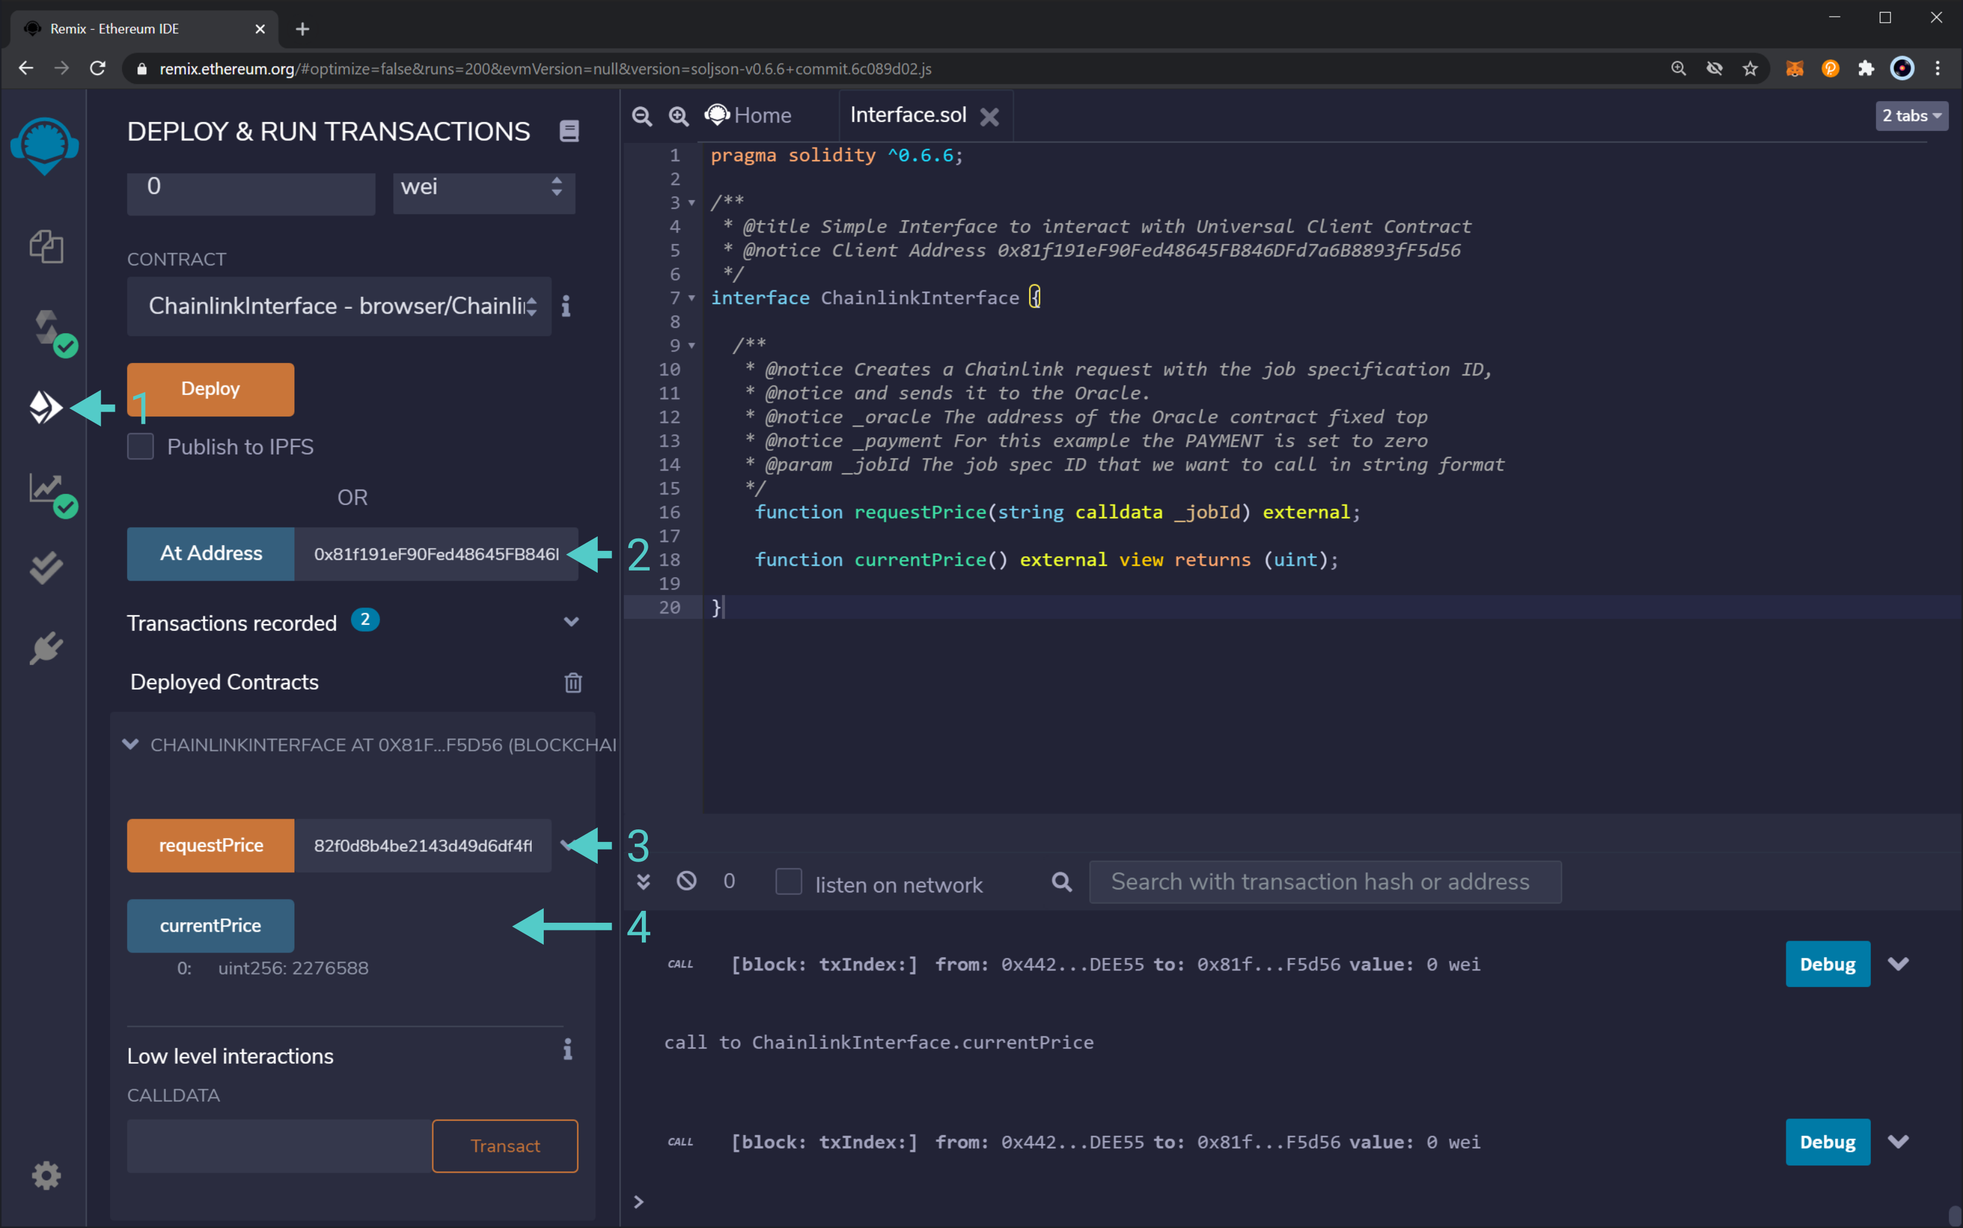
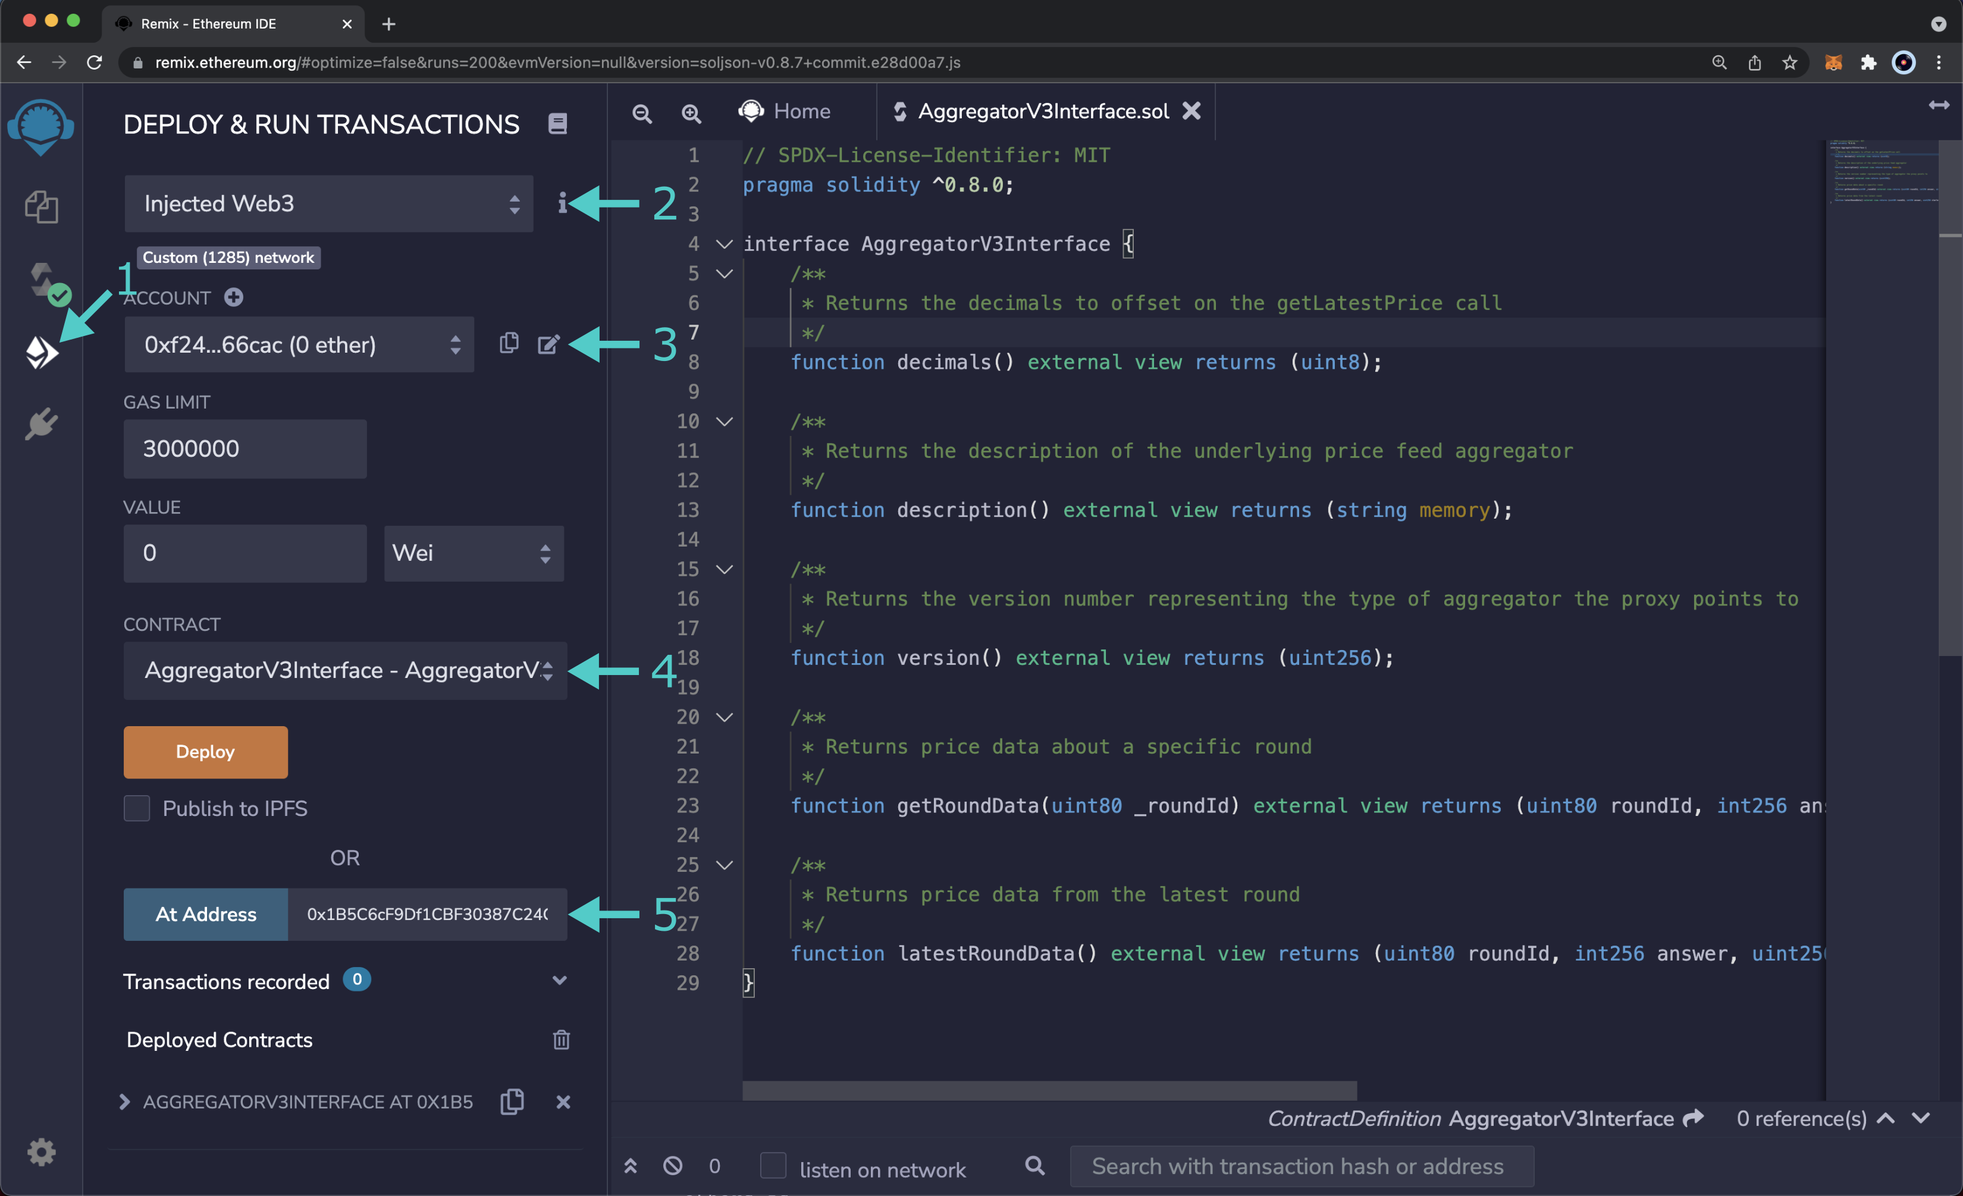
update chainlink docs for Moonriver

diff --git a/builders/integrations/oracles/chainlink.md b/builders/integrations/oracles/chainlink.md
@@ -9,160 +9,28 @@ description: How to use request data from a Chainlink Oracle in your Moonbeam Et
 
 ## Introduction {: #introduction } 
 
-Developers can now use [Chainlink's decentralized Oracle network](https://chain.link/) to fetch data in the Moonbase Alpha TestNet. This tutorial goes through two different ways of using Chainlink Oracles:
-
- - [Basic Request Model](https://docs.chain.link/docs/architecture-request-model), where the end-user sends a request to an Oracle provider, which fetches the data through an API, and fulfils the request storing this data on-chain
- - [Price Feeds](https://docs.chain.link/docs/architecture-decentralized-model), where data is continuously updated by Oracle operators in a smart contract so that other smart contracts can fetch it
-
-## Basic Request Model {: #basic-request-model } 
-
-Before we go into fetching the data itself, it is important to understand the basics of the "basic request model."
-
---8<-- 'text/chainlink/chainlink-brm.md'
-
-### The Client Contract {: #the-client-contract } 
-
-The Client contract is the element that starts the communication with the Oracle by sending a request. As shown in the diagram, it calls the _transferAndCall_ method from the LINK token contract, but there is more processing that is needed to track the request to the Oracle. For this example, you can use the code in [this file](/snippets/code/chainlink/Client.sol), and deploy it on [Remix](/builders/tools/remix/) to try it out. Let's look at the core functions of the contract:
-
- - _constructor_: runs when the contract is deployed. It sets the address of the LINK token and the owner of the contract
- - _requestPrice_: needs the Oracle contract address, the job ID, and the payment (in LINK) tokens to the fulfiller of the request. Builds the new request that is sent using the _sendChainlinkRequestTo_ function from the _ChainlinkClient.sol_ import
- - _fulfill_: callback used by the Oracle node to fulfill the request by storing the queried information in the contract
-
-```solidity
-pragma solidity ^0.6.6;
-
-import "https://github.com/smartcontractkit/chainlink/evm-contracts/src/v0.6/ChainlinkClient.sol";
-
-contract Client is ChainlinkClient {
-  //... there is mode code here
-
-  constructor(address _link) public {
-    // Set the address for the LINK token for the network
-    setChainlinkToken(_link);
-    owner = msg.sender;
-  }
-
-  function requestPrice(address _oracle, string memory _jobId, uint256 _payment)
-    public
-    onlyOwner
-  {
-    // newRequest takes a JobID, a callback address, and callback function as input
-    Chainlink.Request memory req = buildChainlinkRequest(stringToBytes32(_jobId), address(this), this.fulfill.selector);
-    // Sends the request with the amount of payment specified to the oracle
-    sendChainlinkRequestTo(_oracle, req, _payment);
-  }
-
-  function fulfill(bytes32 _requestId, uint256 _price)
-    public
-    recordChainlinkFulfillment(_requestId)
-  {
-    currentPrice = _price;
-  }
-
-  //... there is more code here
-}
-```
-
-Note that the Client contract must have a LINK tokens balance to be able to pay for this request. However, if you deploy your setup, you can set the LINK value to 0 in your `ChainlinkClient.sol` contract, but you still need to have the LINK token contract deployed.
-
-### Try it on Moonbase Alpha {: #try-it-on-moonbase-alpha } 
-
-If you want to skip the hurdles of deploying all contracts, setting up your Oracle node, creating job IDs, and so on, we've got you covered.
-
-A custom Client contract on Moonbase Alpha that makes all requests to our Oracle contract, with a 0 LINK token payment, is available. These requests are fulfilled by an Oracle node that we are running. You can try it out with the following interface contract and the custom Client contract deployed at `{{ networks.moonbase.chainlink.client_contract }}`:
-
-```solidity
-pragma solidity ^0.6.6;
-
-/**
- * @title Simple Interface to interact with Universal Client Contract
- * @notice Client Address {{ networks.moonbase.chainlink.client_contract }}
- */
-interface ChainlinkInterface {
-
-  /**
-   * @notice Creates a Chainlink request with the job specification ID,
-   * @notice and sends it to the Oracle.
-   * @notice _oracle The address of the Oracle contract fixed top
-   * @notice _payment For this example the PAYMENT is set to zero
-   * @param _jobId The job spec ID that we want to call in string format
-   */
-    function requestPrice(string calldata _jobId) external;
-
-    function currentPrice() external view returns (uint);
-
-}
-```
-
-This provides two functions. `requestPrice()` only needs the job ID of the data you want to query. This function starts the chain of events explained before. `currentPrice()` is a view function that returns the latest price stored in the contract.
-
-Currently, the Oracle node has a set of Job IDs for different price datas for the following pairs:
-
-|  Base/Quote  |     |                 Job ID Reference                  |
-| :----------: | --- | :-----------------------------------------------: |
-|  BTC to USD  |     |  {{ networks.moonbase.chainlink.basic.btc_usd }}  |
-|  ETH to USD  |     |  {{ networks.moonbase.chainlink.basic.eth_usd }}  |
-|  DOT to USD  |     |  {{ networks.moonbase.chainlink.basic.dot_usd }}  |
-|  KSM to USD  |     |  {{ networks.moonbase.chainlink.basic.ksm_usd }}  |
-| AAVE to USD  |     | {{ networks.moonbase.chainlink.basic.aave_usd }}  |
-| ALGO to USD  |     | {{ networks.moonbase.chainlink.basic.algo_usd }}  |
-| BAND to USD  |     | {{ networks.moonbase.chainlink.basic.band_usd }}  |
-| LINK to USD  |     | {{ networks.moonbase.chainlink.basic.link_usd }}  |
-| SUSHI to USD |     | {{ networks.moonbase.chainlink.basic.sushi_usd }} |
-|  UNI to USD  |     |  {{ networks.moonbase.chainlink.basic.uni_usd }}  |
-
-Let's go ahead and use the interface contract with the `BTC to USD` Job ID in [Remix](/builders/tools/remix/).
-
-After creating the file and compiling the contract, head to the "Deploy and Run Transactions" tab, enter the Client contract address, and click on "At Address." Make sure you have set the "Environment" to "Injected Web3" so you are connected to Moonbase Alpha. This will create an instance of the Client contract that you can interact with. Use the function `requestPrice()` to query the data of the corresponding Job ID. Once the transaction is confirmed, we have to wait until the whole process explained before occurs. We can check the price using the view function `currentPrice()`.
-
-![Chainlink Basic Request on Moonbase Alpha](/images/builders/integrations/oracles/chainlink/chainlink-1.png)
-
-If there is any specific pair you want us to include, feel free to reach out to us through our [Discord server](https://discord.com/invite/PfpUATX).
-
-### Run your Client Contract {: #run-your-client-contract } 
-
-If you want to run your Client contract but use our Oracle node, you can do so with the following information:
-
-|  Contract Type  |     |                      Address                      |
-| :-------------: | --- | :-----------------------------------------------: |
-| Oracle Contract |     | {{ networks.moonbase.chainlink.oracle_contract }} |
-|   LINK Token    |     |  {{ networks.moonbase.chainlink.link_contract }}  |
-
-Remember that the LINK token payment is set to zero.
-
-### Other Requests {: #other-requests } 
-
-Chainlink's Oracles can tentatively provide many different types of data feeds with the use of external adapters. However, for simplicity, our Oracle node is configured to deliver only price feeds.
-
-If you are interested in running your own Oracle node in Moonbeam, please visit [this guide](/node-operators/oracle-nodes/node-chainlink/). Also, we recommend going through [Chainlink's documentation site](https://docs.chain.link/docs).
+Developers can now use [Chainlink's decentralized Oracle network](https://chain.link/) to fetch data in the Moonbase Alpha TestNet and Moonriver. [Price Feeds](https://docs.chain.link/docs/architecture-decentralized-model) contain real-time price data that is continuously updated by Oracle operators in a smart contract so that other smart contracts can fetch and consume it. This guide will cover the available price feeds and how to fetch the latest price data on Moonriver. 
 
 ## Price Feeds {: #price-feeds } 
 
 Before we go into fetching the data itself, it is important to understand the basics of price feeds.
 
-In a standard configuration, each price feed is updated by a decentralized Oracle network. Each Oracle node is rewarded for publishing the price data to the Aggregator contract. However, the information is only updated if a minimum number of responses from Oracle nodes are received (during an aggregation round).
+In a standard configuration, each price feed is updated by a decentralized Oracle network. Each Oracle node is rewarded for publishing the price data to the Aggregator contract. The Aggregator contract receives periodic data updates from the network of oracles and aggregates and stores the data on-chain so that consumers can easily fetch it. However, the information is only updated if a minimum number of responses from Oracle nodes are received (during an aggregation round).
 
-The end-user can retrieve price feeds with read-only operations via a Consumer contract, referencing the correct Aggregator interface (Proxy contract). The Proxy acts as a middleware to provide the Consumer with the most up-to-date Aggregator for a particular price feed.
+The end-user can retrieve price feeds with read-only operations via a Consumer contract, referencing the Aggregator interface (Proxy contract). The Proxy acts as a middleware to provide the Consumer with the most up-to-date Aggregator for a particular price feed.
 
 ![Price Feed Diagram](/images/builders/integrations/oracles/chainlink/chainlink-price-feed.png)
 
-### Try it on Moonbase Alpha {: #try-it-on-moonbase-alpha } 
+### Try it out {: #try-it-out } 
 
-If you want to skip the hurdles of deploying all the contracts, setting up your Oracle node, creating job IDs, and so on, we've got you covered.
+There are Data Feed contracts available for both Moonbase Alpha and Moonriver to help simplify the process of requesting price feeds. In our current configuration for Moonbase Alpha, we are running only one Oracle node that fetches the price from a single API source. Price data is checked every minute and updated in the smart contracts every hour unless there is a price deviation of 1 %. The Moonriver Data Feed contracts are updated by multiple Chainlink nodes on a regular basis.
 
-We've deployed all the necessary contracts on Moonbase Alpha to simplify the process of requesting price feeds. In our current configuration, we are running only one Oracle node that fetches the price from a single API source. Price data is checked every minute and updated in the smart contracts every hour unless there is a price deviation of 1 %.
+The data lives in a series of smart contracts (one per price feed) and can be fetched with the Aggregator interface:
 
-The data lives in a series of smart contracts (one per price feed) and can be fetched with the following interface:
+```
+pragma solidity ^0.8.0;
 
-```solidity
-pragma solidity ^0.6.6;
-
-interface ConsumerV3Interface {
-    /**
-     * Returns the latest price
-     */
-    function getLatestPrice() external view returns (int);
-
+interface AggregatorV3Interface {
     /**
      * Returns the decimals to offset on the getLatestPrice call
      */
@@ -172,33 +40,80 @@ interface ConsumerV3Interface {
      * Returns the description of the underlying price feed aggregator
      */
     function description() external view returns (string memory);
+
+    /**
+     * Returns the version number representing the type of aggregator the proxy points to
+     */
+    function version() external view returns (uint256);
+
+    /**
+     * Returns price data about a specific round
+     */
+    function getRoundData(uint80 _roundId) external view returns (uint80 roundId, int256 answer, uint256 startedAt, uint256 updatedAt, uint80 answeredInRound);
+
+    /**
+     * Returns price data from the latest round
+     */
+    function latestRoundData() external view returns (uint80 roundId, int256 answer, uint256 startedAt, uint256 updatedAt, uint80 answeredInRound);
 }
-```
+```  
 
-This provides three functions. `getLatestPrice()` will read the latest price data available in the Aggregator contract via the Proxy. We've added the `decimals()` function, which returns the number of decimals of the data and the `description()` function, which returns a brief description of the price feed available in the Aggregator contract being queried.
+As seen above in the interface, there are five functions: `decimal`, `description`, `version`, `getRoundData`, and `latestRoundData`. Since the Consumer contract will use the Aggregator interface, all of these functions are available for fetching data. 
 
-Currently, there is an Consumer contract for the the following price pairs:
+Currently, there are Data Feed contracts for the the following price pairs:
 
-|  Base/Quote  |     |                     Consumer Contract                     |
-| :----------: | --- | :-------------------------------------------------------: |
-|  BTC to USD  |     |  {{ networks.moonbase.chainlink.feed.consumer.btc_usd }}  |
-|  ETH to USD  |     |  {{ networks.moonbase.chainlink.feed.consumer.eth_usd }}  |
-|  DOT to USD  |     |  {{ networks.moonbase.chainlink.feed.consumer.dot_usd }}  |
-|  KSM to USD  |     |  {{ networks.moonbase.chainlink.feed.consumer.ksm_usd }}  |
-| AAVE to USD  |     | {{ networks.moonbase.chainlink.feed.consumer.aave_usd }}  |
-| ALGO to USD  |     | {{ networks.moonbase.chainlink.feed.consumer.algo_usd }}  |
-| BAND to USD  |     | {{ networks.moonbase.chainlink.feed.consumer.band_usd }}  |
-| LINK to USD  |     | {{ networks.moonbase.chainlink.feed.consumer.link_usd }}  |
-| SUSHI to USD |     | {{ networks.moonbase.chainlink.feed.consumer.sushi_usd }} |
-|  UNI to USD  |     |  {{ networks.moonbase.chainlink.feed.consumer.uni_usd }}  |
+=== "Moonbase Alpha"
+    |  Base/Quote  |  |                     Consumer Contract                     |
+    |:------------:|--|:---------------------------------------------------------:|
+    |  BTC to USD  |  |  {{ networks.moonbase.chainlink.feed.consumer.btc_usd }}  |
+    |  ETH to USD  |  |  {{ networks.moonbase.chainlink.feed.consumer.eth_usd }}  |
+    |  DOT to USD  |  |  {{ networks.moonbase.chainlink.feed.consumer.dot_usd }}  |
+    |  KSM to USD  |  |  {{ networks.moonbase.chainlink.feed.consumer.ksm_usd }}  |
+    | AAVE to USD  |  | {{ networks.moonbase.chainlink.feed.consumer.aave_usd }}  |
+    | ALGO to USD  |  | {{ networks.moonbase.chainlink.feed.consumer.algo_usd }}  |
+    | BAND to USD  |  | {{ networks.moonbase.chainlink.feed.consumer.band_usd }}  |
+    | LINK to USD  |  | {{ networks.moonbase.chainlink.feed.consumer.link_usd }}  |
+    | SUSHI to USD |  | {{ networks.moonbase.chainlink.feed.consumer.sushi_usd }} |
+    |  UNI to USD  |  |  {{ networks.moonbase.chainlink.feed.consumer.uni_usd }}  |
 
-Let's go ahead and use the interface contract to fetch the price feed of `BTC to USD` using [Remix](/builders/tools/remix/).
+=== "Moonriver"
+    | Base/Quote  |  |                     Consumer Contract                     |
+    |:-----------:|--|:---------------------------------------------------------:|
+    | BTC to USD  |  | {{ networks.moonriver.chainlink.feed.consumer.btc_usd }}  |
+    | ETH to USD  |  | {{ networks.moonriver.chainlink.feed.consumer.eth_usd }}  |
+    | KSM to USD  |  | {{ networks.moonriver.chainlink.feed.consumer.ksm_usd }}  |
+    | LINK to USD |  | {{ networks.moonriver.chainlink.feed.consumer.link_usd }} |
+    | BNB to USD  |  | {{ networks.moonriver.chainlink.feed.consumer.bnb_usd }}  |
+    | FRAX to USD |  | {{ networks.moonriver.chainlink.feed.consumer.frax_usd }} |
+    | MIM to USD  |  | {{ networks.moonriver.chainlink.feed.consumer.mim_usd }}  |
+    | USDT to USD |  | {{ networks.moonriver.chainlink.feed.consumer.usdt_usd }} |
 
-After creating the file and compiling the contract, head to the "Deploy and Run Transactions" tab, enter the Consumer contract address corresponding to `BTC to USD`, and click on "At Address." Make sure you have set the "Environment" to "Injected Web3" so you are connected to Moonbase Alpha.
+Let's go ahead and use the Aggregator interface to fetch the price feed of `BTC to USD` using [Remix](https://remix.ethereum.org/). If you need help loading a contract into Remix, check out the [Using Remix](/builders/interact/remix/) page of the documentation site.
 
-This will create an instance of the Consumer contract that you can interact with. Use the function `getLatestPrice()` to query the data of the corresponding price feed.
+You will need to connect your MetaMask account to Remix, so make sure you have MetaMask installed and are connected to the Moonbase Alpha TestNet or Moonriver. To get help setting up MetaMask, check out the [Interacting with Moonbeam Using MetaMask](/tokens/connect/metamask/#install-the-metamask-extension) guide.
 
-![Chainlink Price Feeds on Moonbase Alpha](/images/builders/integrations/oracles/chainlink/chainlink-2.png)
+After creating the file and compiling the contract, you will need to follow these steps:
+
+1. Head to the **Deploy and Run Transactions** tab
+2. Set the **Environment** to **Injected Web3**
+3. If your MetaMask is already connected it will appear in the **Account** selector. Otherwise, you will be prompted by MetaMask to select and connect your account(s)
+4. Select the `AggregatorV3Interface` contract from the **Contract** dropdown
+5. Enter the Consumer contract address corresponding to `BTC to USD` in the **At Address** field and click the **At Address** button:
+
+    === "Moonbase Alpha"
+        `{{ networks.moonbase.chainlink.feed.consumer.btc_usd }}`
+
+    === "Moonriver"
+        `{{ networks.moonriver.chainlink.feed.consumer.btc_usd }}`
+
+![Load the Chainlink Price Feed Aggregator Interface on Moonriver](/images/builders/integrations/oracles/chainlink/chainlink-1.png)
+
+This will create an instance of the Aggregator interface that you can interact with and it will appear under the **Deployed Contracts** section in Remix. To get the latest price data you can follow these steps:
+
+1. Expand the `AggregatorV3Interface` contract to reveal the available functions
+2. Click `latestRoundData()` to query the data of the corresponding price feed, in this case BTC to USD
+
+![Interact with the Chainlink Price Feed Aggregator Interface on Moonriver](/images/builders/integrations/oracles/chainlink/chainlink-2.png)
 
 Note that to obtain the real price, you must account for the decimals of the price feed, available with the `decimals()` method.
 

diff --git a/snippets/text/chainlink/chainlink-brm.md b/snippets/text/chainlink/chainlink-brm.md
@@ -2,7 +2,7 @@ An Oracle node has a set of job IDs, where each corresponds to a task that can b
 
  - Oracle address: address of the contract deployed by the Oracle node
  - Job ID: task to be executed
- - Payment: payment in LINK tokens that the Oracle will receive for fulfiling the request
+ - Payment: payment in LINK tokens that the Oracle will receive for fulfilling the request
 
 This request actually sends a _transferAndCall_ to the LINK token contract, which handles the payment and relays the request to the Oracle contract. Here, an event is emited with the request, which is picked up by the Oracle node. Next, the node fetches the necessary data and executes the _fulfilOracleRequest_ function, which executes a callback that stores the requested information in the Client contract. The following diagram explains this workflow.
 
